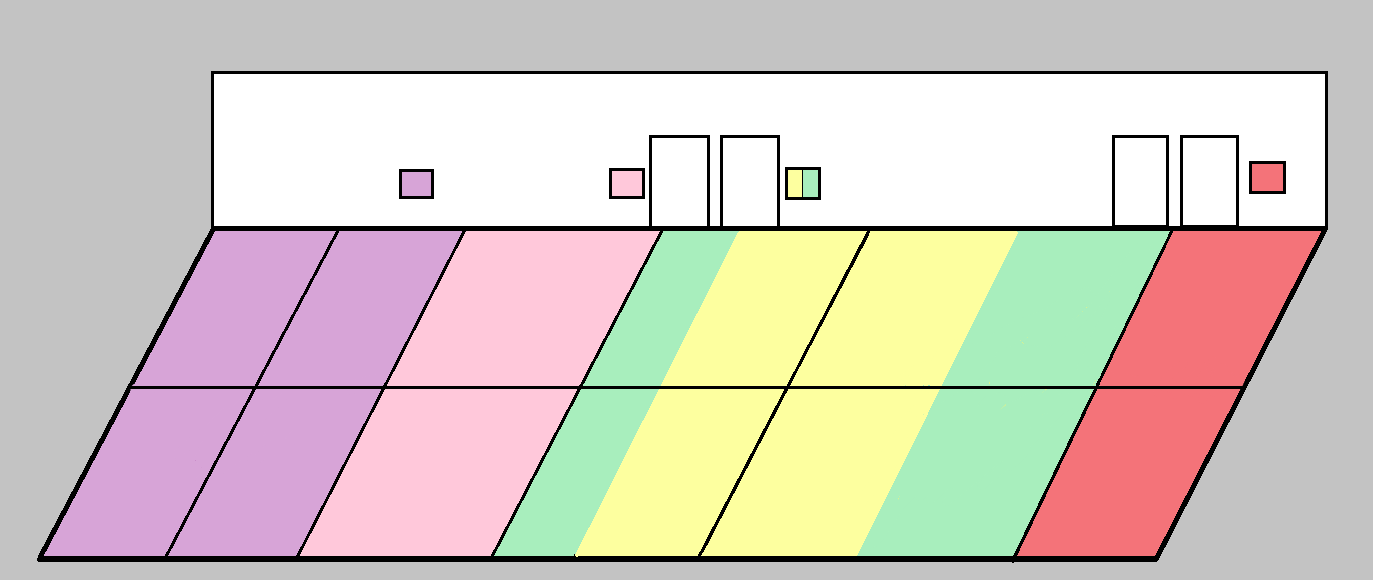
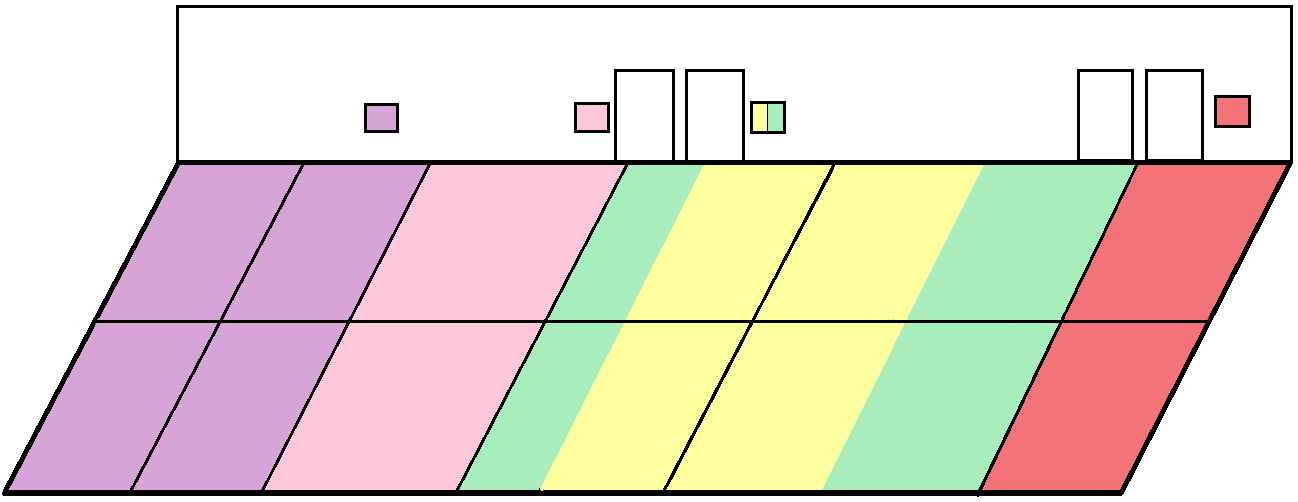
manipulation css again

diff --git a/public/css/stylesheet.css b/public/css/stylesheet.css
@@ -284,7 +284,7 @@ footer {
 
 .map {
     width: 100%;
-    height: auto;
+    height: 45%;
 }
 
 .remotes {
